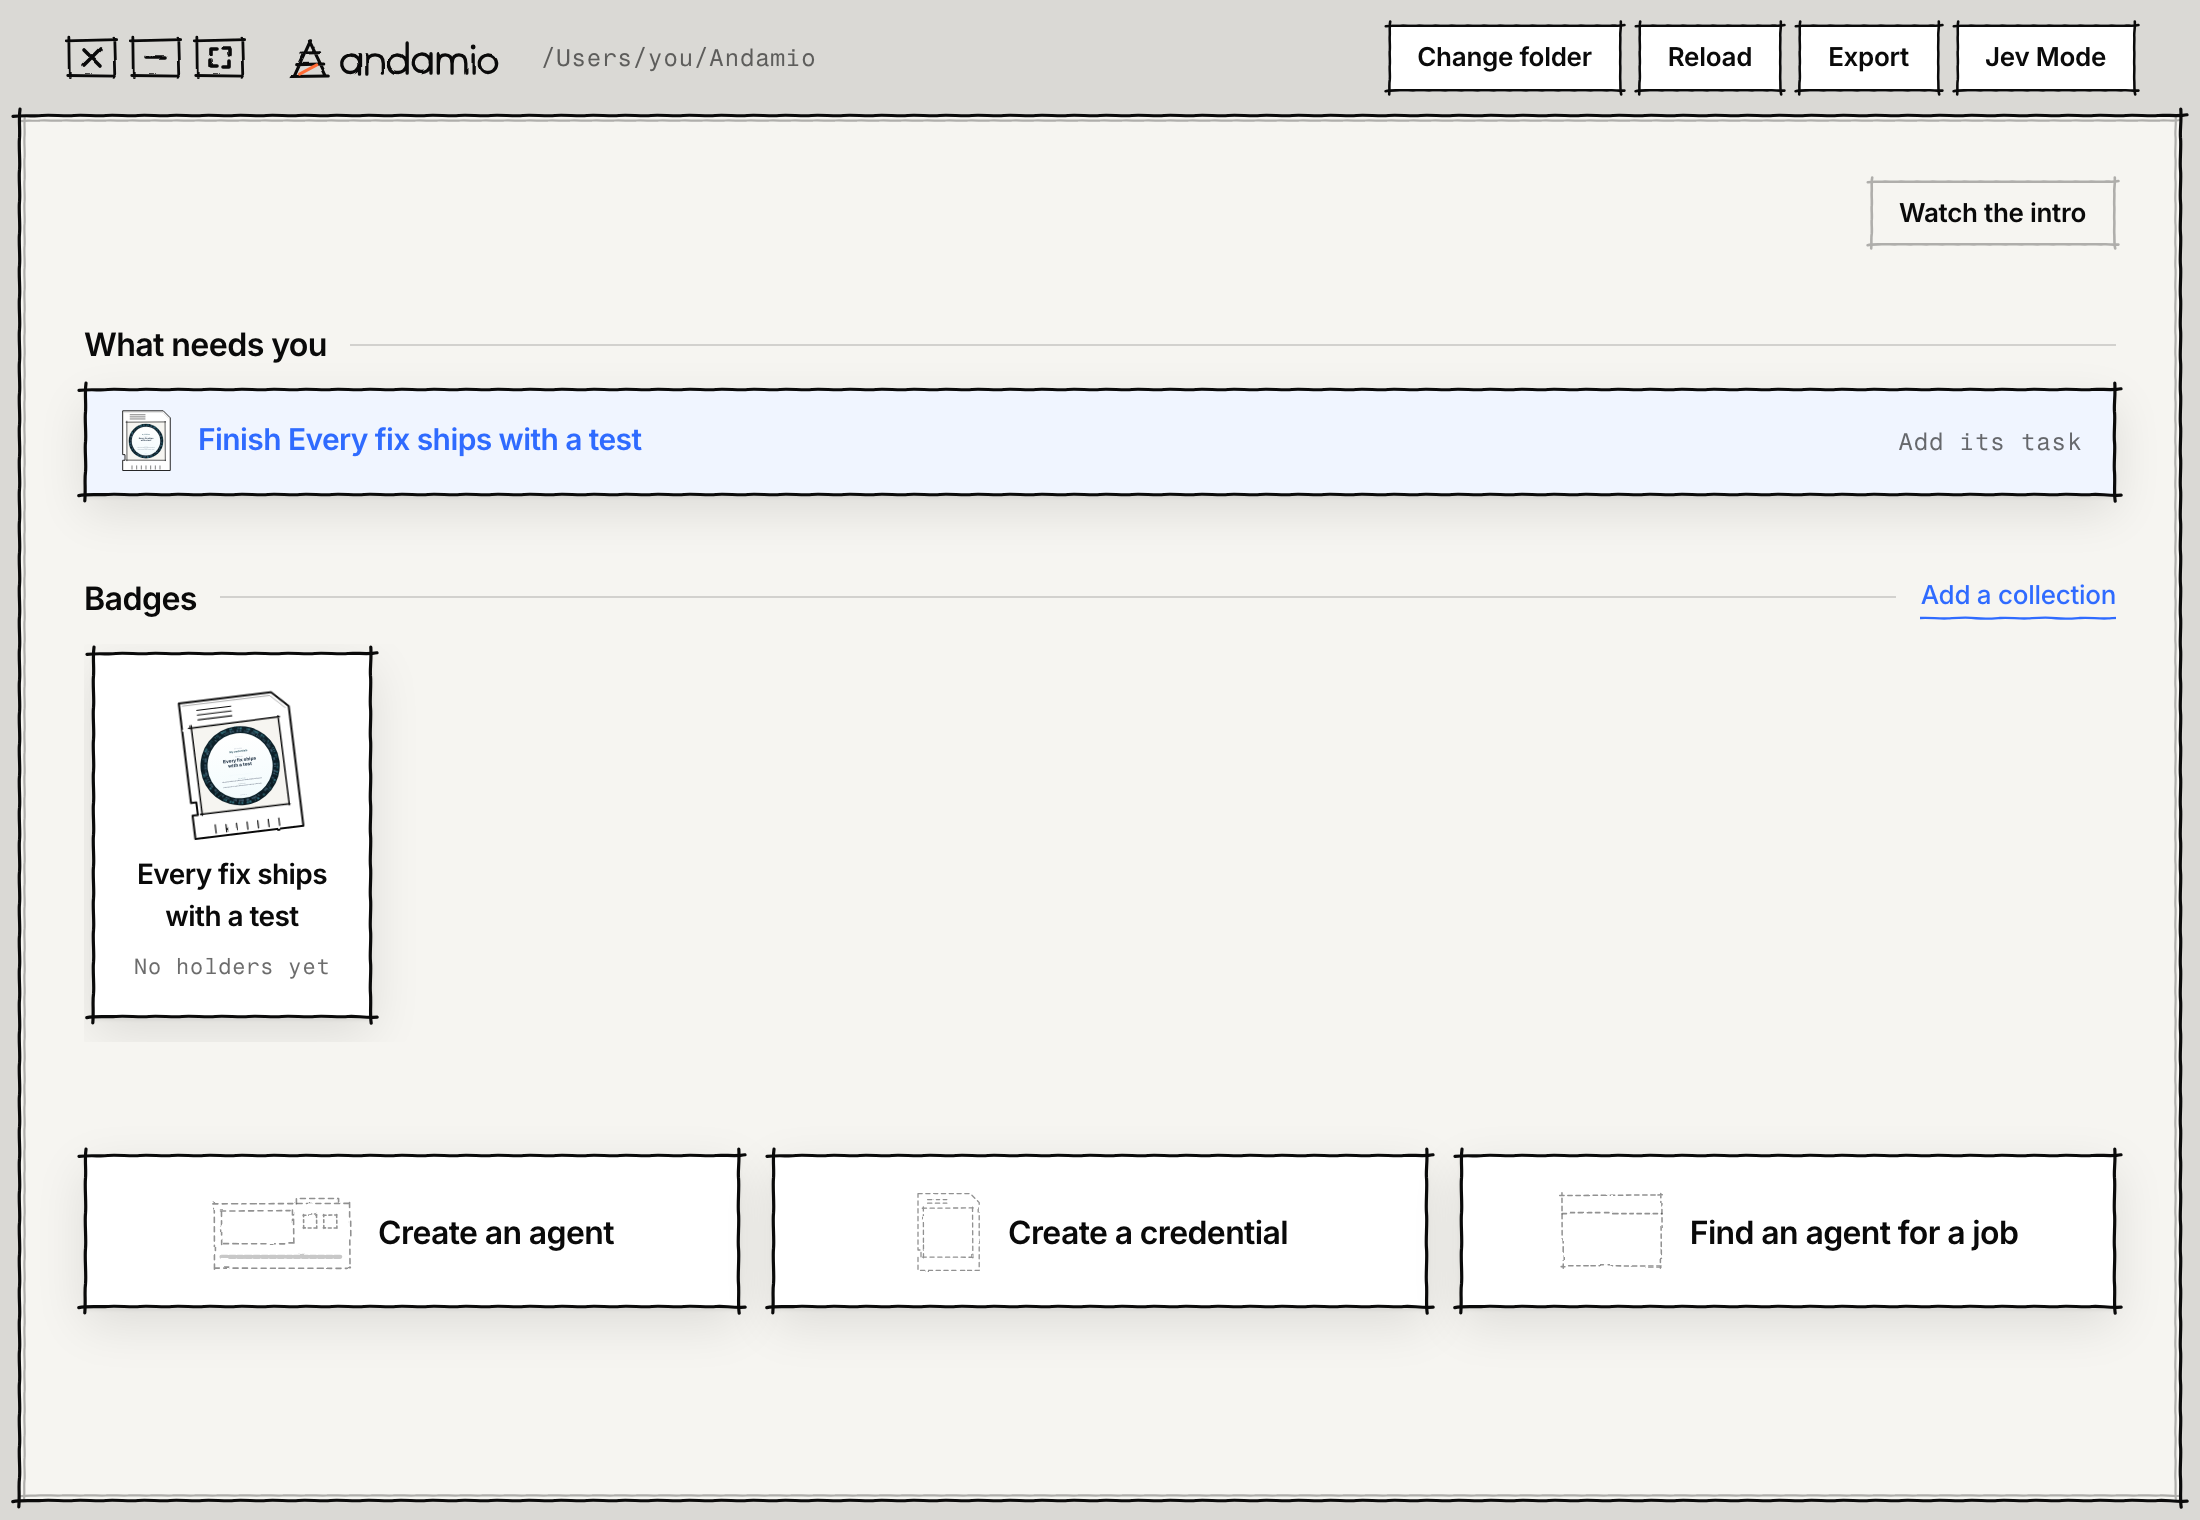
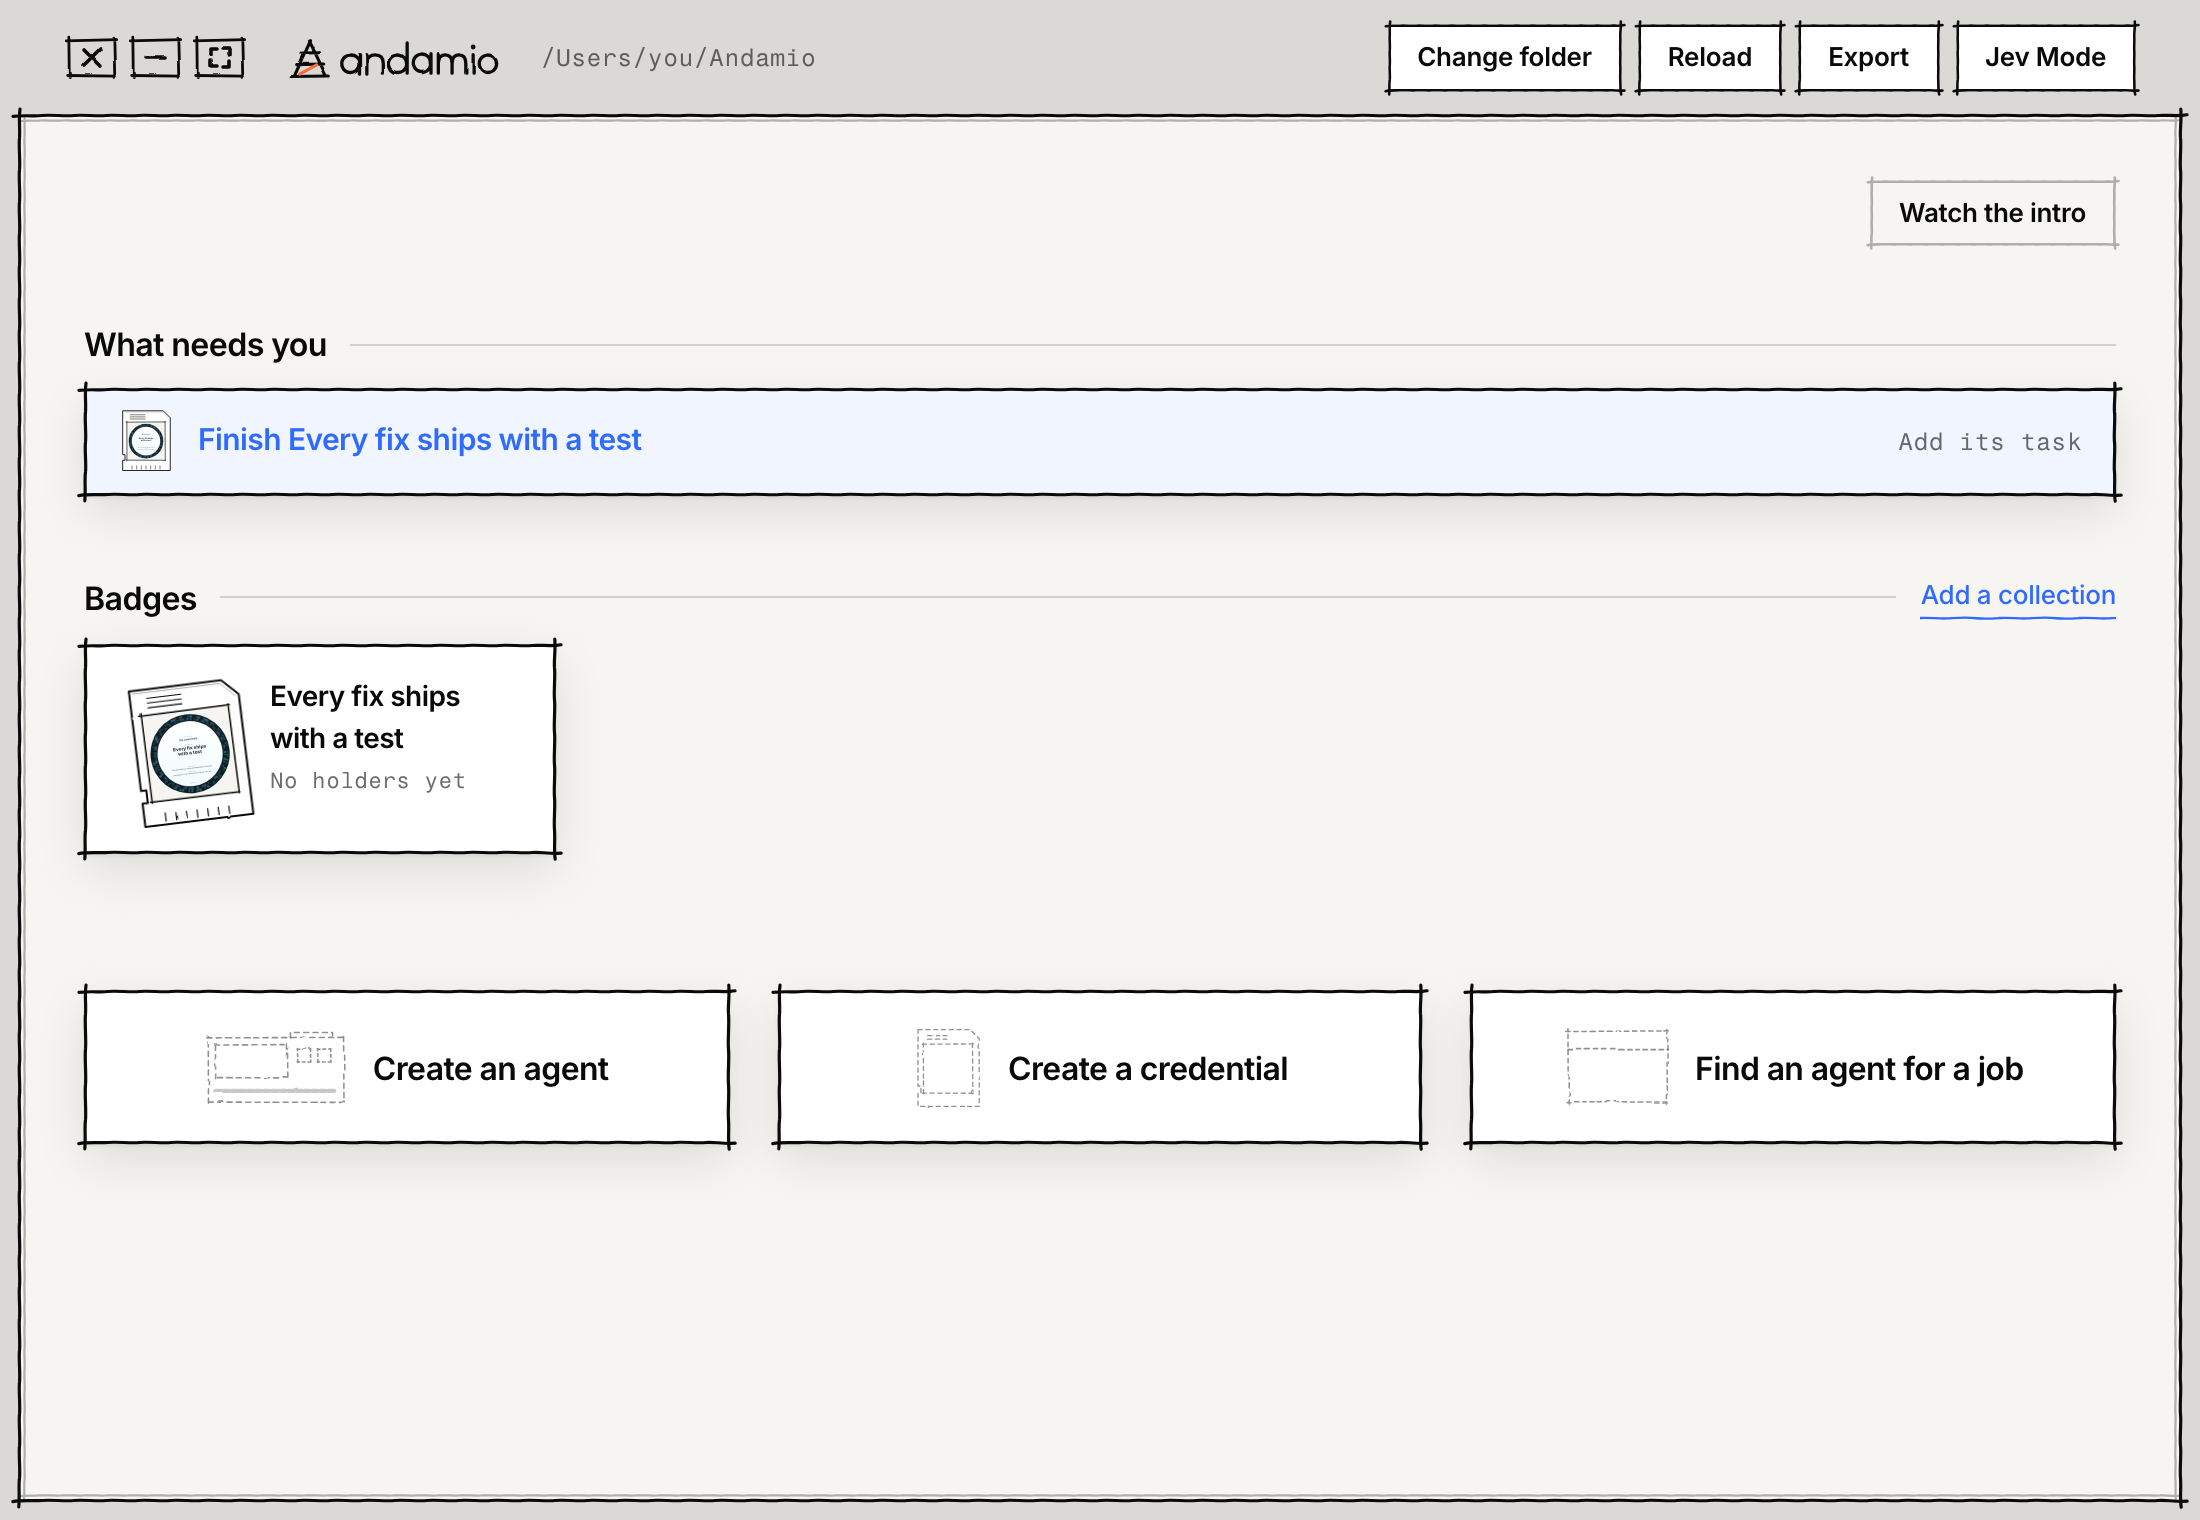
feat(home): lay agent and badge cards on their side, in one grid that lines up across Home

diff --git a/src/App.css b/src/App.css
@@ -1482,9 +1482,11 @@ button:where(.door, .part, .agent-card, .badge-card, .earned, .detail-holder, .n
   gap: var(--space-2xl);
 }
 
+/* The column gap is the shelves' own gap, so the agents' cards line up over the badges'. */
 .home-shelves-paired {
   display: grid;
   grid-template-columns: repeat(2, minmax(0, 1fr));
+  column-gap: var(--space-lg);
   align-items: start;
 }
 
@@ -1590,39 +1592,51 @@ button:where(.door, .part, .agent-card, .badge-card, .earned, .detail-holder, .n
   font-size: 13px;
 }
 
-/* Shelves scroll sideways so home stays one screen. */
+/* Shelves are a grid of one card size, so agents and badges line up in columns. A row keeps
+   as many cards as fit and the rest wrap under it. */
 .shelf {
   list-style: none;
-  display: flex;
-  gap: var(--space-base);
+  display: grid;
+  grid-template-columns: repeat(auto-fill, minmax(15rem, 1fr));
+  gap: var(--space-lg);
   margin: 0;
-  padding: var(--space-xs) var(--space-xs) var(--space-md);
-  overflow-x: auto;
+  padding: 0 0 var(--space-md);
 }
 
 .shelf > li {
-  flex: none;
+  min-width: 0;
 }
 
+/* A card lies on its side: its piece on the left, its name and what follows on the right,
+   so a long name runs across the card rather than down it. */
 .agent-card,
 .badge-card {
-  display: flex;
-  flex-direction: column;
+  display: grid;
+  grid-template-columns: auto minmax(0, 1fr);
+  align-content: center;
   align-items: center;
-  gap: var(--space-xs);
-  width: 10rem;
-  min-height: 100%;
-  padding: var(--space-base) var(--space-md);
+  column-gap: var(--space-md);
+  row-gap: var(--space-xs);
+  width: 100%;
+  height: 100%;
+  min-height: 7.5rem;
+  padding: var(--space-md) var(--space-base);
   background: var(--surface);
   border: var(--rule-width) solid var(--rule);
   box-shadow: var(--shadow);
-  text-align: center;
+  text-align: left;
   font-weight: 400;
 }
 
-.agent-card .cast,
-.badge-card .cast {
-  margin-bottom: var(--space-xs);
+.agent-card > *,
+.badge-card > * {
+  grid-column: 2;
+}
+
+.agent-card > .cast,
+.badge-card > .cast {
+  grid-column: 1;
+  grid-row: 1 / span 3;
 }
 
 /* A cartridge nobody holds sits unslotted, a little off true (R9). */
@@ -1637,6 +1651,10 @@ button:where(.door, .part, .agent-card, .badge-card, .earned, .detail-holder, .n
   letter-spacing: var(--heading-tracking);
 }
 
+.agent-card-setup > span {
+  white-space: nowrap;
+}
+
 .agent-card-setup {
   font-family: var(--font-mono);
   font-size: 11px;
@@ -1647,9 +1665,7 @@ button:where(.door, .part, .agent-card, .badge-card, .earned, .detail-holder, .n
 .holders {
   display: flex;
   flex-wrap: wrap;
-  justify-content: center;
   gap: 3px;
-  margin-top: var(--space-xs);
 }
 
 .holder {
@@ -1686,7 +1702,7 @@ button:where(.door, .part, .agent-card, .badge-card, .earned, .detail-holder, .n
   bottom: 0;
   display: grid;
   grid-template-columns: 1fr 1fr 1fr;
-  gap: var(--space-base);
+  gap: var(--space-lg);
   padding: var(--space-base) 0;
   background: var(--bg);
 }

diff --git a/src/ui/Home.tsx b/src/ui/Home.tsx
@@ -13,7 +13,7 @@
 // group per collection under its name, in the same order as the flat list (collections plan
 // R1, KTD5). A collection just added lights its group, re-read from the folder every render.
 
-import { useMemo, useState } from "react";
+import { Fragment, useMemo, useState } from "react";
 import type { ReactNode } from "react";
 import { goToOf, goToStanding } from "../domain/goTo";
 import { cellKey } from "../domain/matrix";
@@ -198,9 +198,19 @@ export function Home() {
                   return (
                     <li key={p.slug}>
                       <button type="button" className="agent-card" onClick={() => navigate({ view: "item", item: "agent", profileSlug: p.slug })}>
-                        <Machine mini setup={p} keys={shelf.keys.get(p.slug)} plugged={shelf.plugs.get(p.slug)} width={128} />
+                        <Machine mini setup={p} keys={shelf.keys.get(p.slug)} plugged={shelf.plugs.get(p.slug)} width={96} />
                         <span className="agent-card-name">{p.name}</span>
-                        <span className="agent-card-setup">{[p.harness, p.model, p.effort].filter(Boolean).join(" · ")}</span>
+                        {/* Each setting keeps its line whole; the line breaks only between them. */}
+                        <span className="agent-card-setup">
+                          {[p.harness, p.model, p.effort]
+                            .filter(Boolean)
+                            .map((part, i) => (
+                              <Fragment key={i}>
+                                {i > 0 && " · "}
+                                <span>{part}</span>
+                              </Fragment>
+                            ))}
+                        </span>
                         {earned.length > 0 && (
                           <span className="visually-hidden" role="list" aria-label="Earned">
                             {earned.map((c) => (
